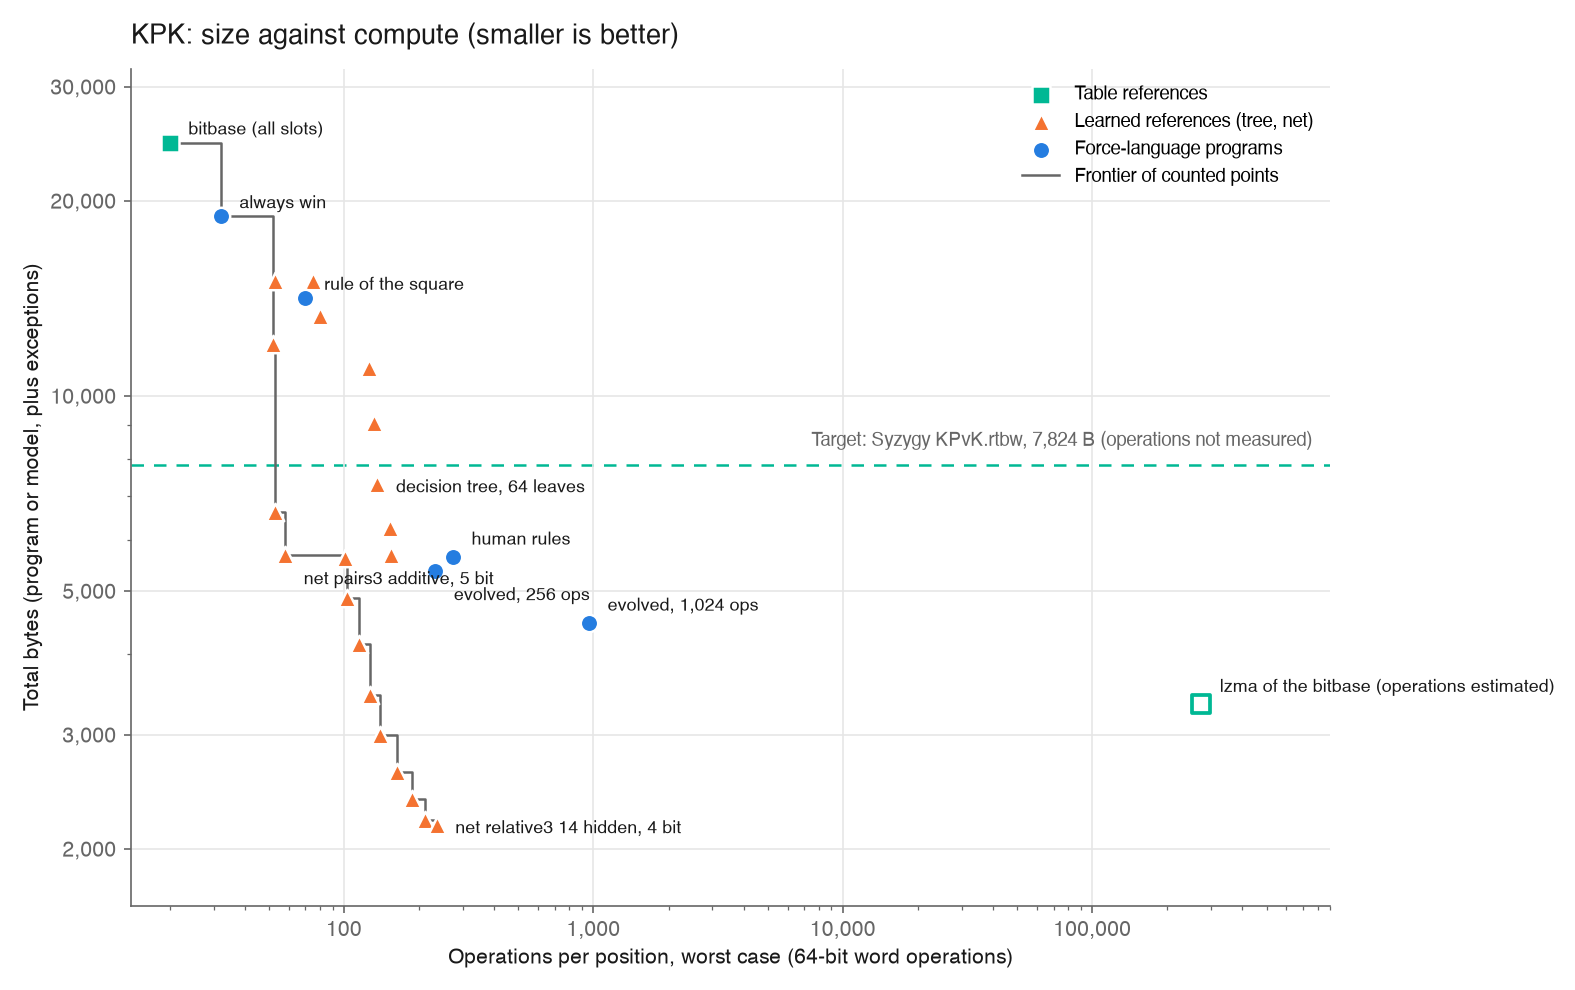
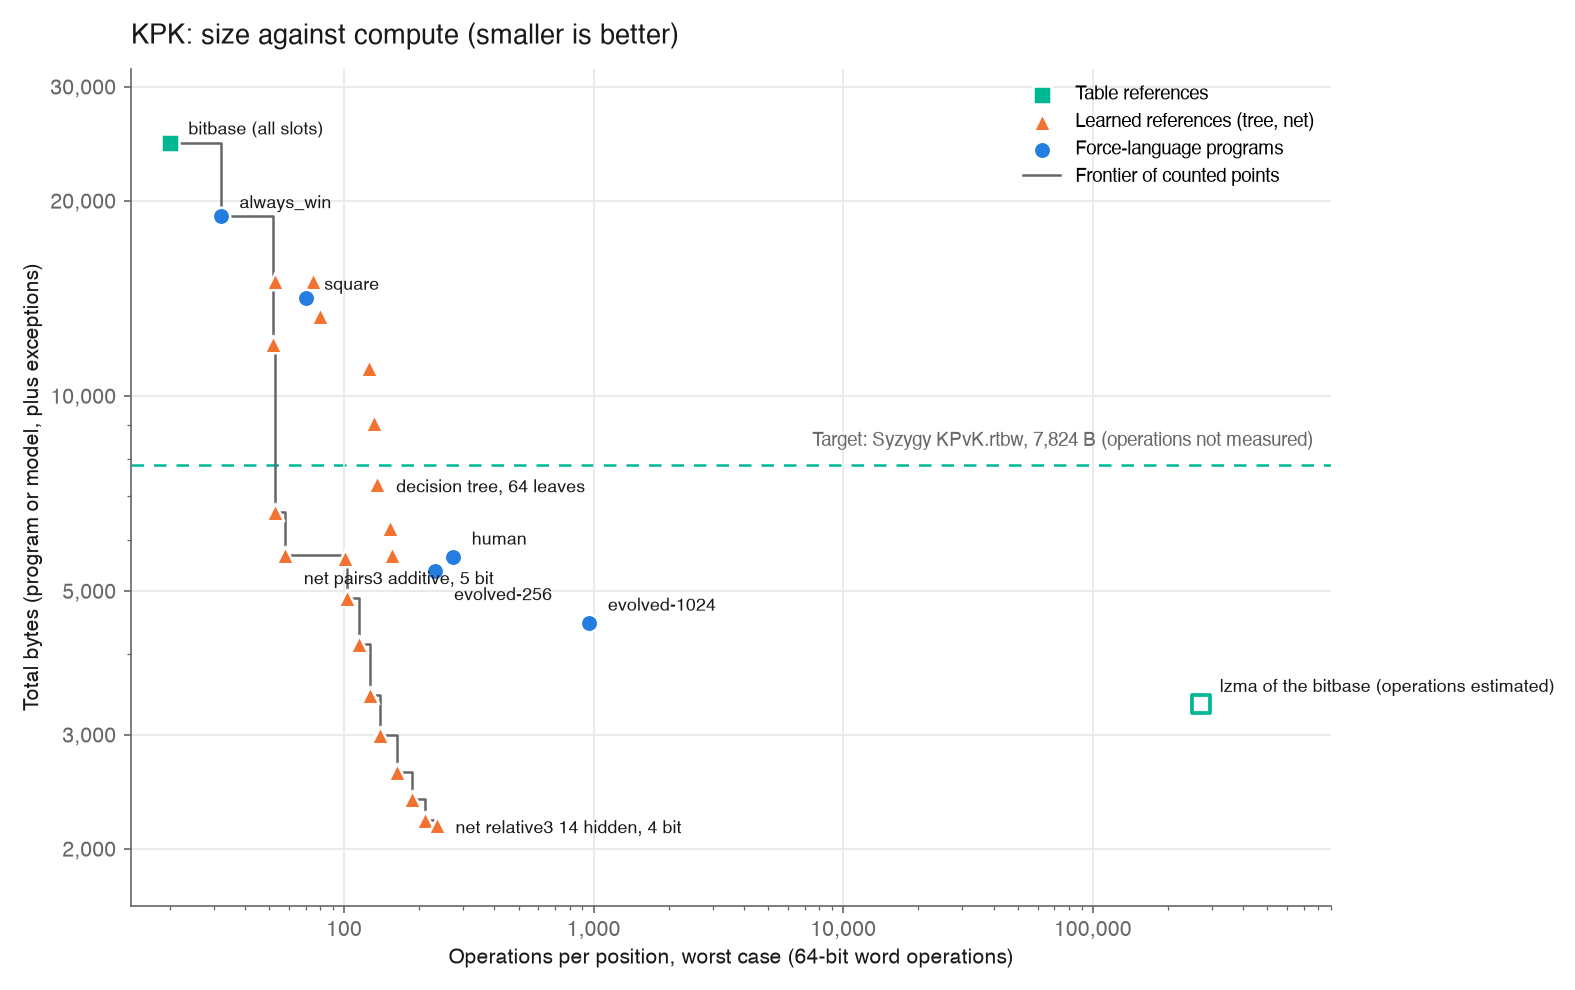
Report plots every program in the endgame's programs/ folder, named by file

diff --git a/src/chess_forces/report.py b/src/chess_forces/report.py
@@ -9,13 +9,6 @@ from .baselines import Point
 
 ENDGAME = endgames.KPK
 PROGRAMS = ENDGAME.programs
-PROGRAM_NAMES = {
-    "always_win": "always win",
-    "square": "rule of the square",
-    "human": "human rules",
-    "evolved-256": "evolved, 256 ops",
-    "evolved-1024": "evolved, 1,024 ops",
-}
 
 # categorical slots 1-3 of the reference palette (validated for scatter use, all pairs), chart inks
 BLUE, ORANGE, AQUA = "#257de0", "#f47230", "#00b894"
@@ -51,10 +44,10 @@ def build() -> Report:
     points = list(baselines.table_points())
     points += baselines.tree_points(task)
     points += baselines.net_points(task)
-    for path, label in PROGRAM_NAMES.items():
+    for path in sorted(PROGRAMS.glob("*.dsl")):
         points.append(
             baselines.program_point(
-                label, (PROGRAMS / f"{path}.dsl").read_text(), task, "DSL program, " + label
+                path.stem, path.read_text(), task, f"DSL program, programs/{path.name}"
             )
         )
     return Report(
@@ -273,12 +266,12 @@ def _plot(report: Report, path: Path) -> None:
     ax.legend(frameon=False, loc="upper right", fontsize=9)
     labels = {
         "bitbase (all slots)": (9, 4, "left"),
-        "always win": (9, 4, "left"),
-        "rule of the square": (9, 4, "left"),
+        "always_win": (9, 4, "left"),
+        "square": (9, 4, "left"),
         "decision tree, 64 leaves": (9, -4, "left"),
-        "human rules": (9, 6, "left"),
-        "evolved, 256 ops": (9, -14, "left"),
-        "evolved, 1,024 ops": (9, 6, "left"),
+        "human": (9, 6, "left"),
+        "evolved-256": (9, -14, "left"),
+        "evolved-1024": (9, 6, "left"),
         "lzma of the bitbase": (9, 6, "left"),
         "net pairs3 additive, 5 bit": (9, -14, "left"),
         "net relative3 14 hidden, 4 bit": (9, -4, "left"),
@@ -291,7 +284,8 @@ def _plot(report: Report, path: Path) -> None:
         for t in dsl.TIERS
     }
     for p in report.points:
-        if (p.name in labels or p.name in tier_best) and p.ops_max is not None:
+        named = p.name in labels or p.name in tier_best or p.kind == "force"
+        if named and p.ops_max is not None:
             dx, dy, ha = labels.get(p.name, (9, -4, "left"))
             text = p.name + (" (operations estimated)" if p.estimated_ops else "")
             ax.annotate(

diff --git a/endgames/kpk/report.md b/endgames/kpk/report.md
@@ -8,21 +8,21 @@ The target is the Syzygy file of the endgame, with at most 4,096 operations per 
 
 | Force program | Total bytes | Max ops | Against Syzygy |
 | --- | ---: | ---: | ---: |
-| evolved, 1,024 ops | 4,459 | 959 | -3,365 B (-43%) |
-| evolved, 256 ops | 5,367 | 232 | -2,457 B (-31%) |
-| human rules | 5,639 | 273 | -2,185 B (-28%) |
-| rule of the square | 14,151 | 70 | +6,327 B (+81%) |
-| always win | 18,914 | 32 | +11,090 B (+142%) |
+| evolved-1024 | 4,459 | 959 | -3,365 B (-43%) |
+| evolved-256 | 5,367 | 232 | -2,457 B (-31%) |
+| human | 5,639 | 273 | -2,185 B (-28%) |
+| square | 14,151 | 70 | +6,327 B (+81%) |
+| always_win | 18,914 | 32 | +11,090 B (+142%) |
 
 ## All methods
 
 | | Total bytes | Model | Exceptions | Errors | Max ops |
 | --- | ---: | ---: | ---: | ---: | ---: |
-| evolved, 1,024 ops | 4,459 | 150.3 | 4,308.9 | 5,426 | 959 |
-| evolved, 256 ops | 5,367 | 149.5 | 5,217.8 | 6,977 | 232 |
-| human rules | 5,639 | 80.4 | 5,558.3 | 7,590 | 273 |
-| rule of the square | 14,151 | 15.6 | 14,135.4 | 30,006 | 70 |
-| always win ★ | 18,914 | 0.8 | 18,912.9 | 54,394 | 32 |
+| evolved-1024 | 4,459 | 150.3 | 4,308.9 | 5,426 | 959 |
+| evolved-256 | 5,367 | 149.5 | 5,217.8 | 6,977 | 232 |
+| human | 5,639 | 80.4 | 5,558.3 | 7,590 | 273 |
+| square | 14,151 | 15.6 | 14,135.4 | 30,006 | 70 |
+| always_win ★ | 18,914 | 0.8 | 18,912.9 | 54,394 | 32 |
 | net relative3 14 hidden, 4 bit ★ | 2,178 | 1,531.8 | 646.0 | 530 | 235 |
 | net relative3 12 hidden, 4 bit ★ | 2,213 | 1,464.0 | 748.9 | 631 | 211 |
 | net relative3 10 hidden, 4 bit ★ | 2,390 | 1,262.6 | 1,127.5 | 1,027 | 187 |
@@ -43,7 +43,7 @@ The target is the Syzygy file of the endgame, with at most 4,096 operations per 
 | decision tree, 8 leaves | 13,288 | 39.9 | 13,248.3 | 26,881 | 80 |
 | decision tree, 2 leaves | 15,028 | 9.7 | 15,017.8 | 33,400 | 53 |
 | decision tree, 4 leaves | 15,040 | 22.6 | 15,017.8 | 33,400 | 75 |
-| lzma of the bitbase | 3,341 | 3,341.0 | 0.0 | 0 | 272,874 (est) |
+| lzma of the bitbase | 3,341 | 3,341.0 | 0.0 | 0 | 270,876 (est) |
 | Syzygy KPvK.rtbw | 7,824 | 7,824.0 | 0.0 | 0 | – |
 | bitbase (all slots) ★ | 24,576 | 24,576.0 | 0.0 | 0 | 20 |
 
@@ -53,10 +53,10 @@ Tables and learned models are references, not targets: they show how much of a w
 
 | Tier | Best reference | Best force program | Difference |
 | ---: | --- | --- | ---: |
-| 64 | 5,681 B (net pairs3 additive, 5 bit) | 18,914 B (always win) | +13,233 B |
-| 256 | 2,178 B (net relative3 14 hidden, 4 bit) | 5,367 B (evolved, 256 ops) | +3,190 B |
-| 1,024 | 2,178 B (net relative3 14 hidden, 4 bit) | 4,459 B (evolved, 1,024 ops) | +2,281 B |
-| 4,096 | 2,178 B (net relative3 14 hidden, 4 bit) | 4,459 B (evolved, 1,024 ops) | +2,281 B |
+| 64 | 5,681 B (net pairs3 additive, 5 bit) | 18,914 B (always_win) | +13,233 B |
+| 256 | 2,178 B (net relative3 14 hidden, 4 bit) | 5,367 B (evolved-256) | +3,190 B |
+| 1,024 | 2,178 B (net relative3 14 hidden, 4 bit) | 4,459 B (evolved-1024) | +2,281 B |
+| 4,096 | 2,178 B (net relative3 14 hidden, 4 bit) | 4,459 B (evolved-1024) | +2,281 B |
 
 ★ on the frontier of counted points (smallest total bytes at or below that operation count). Tables: Syzygy's operations were not measured; lzma is one setting, and its operations come from decompression time (rough, and different on every run), because a single position needs the whole file unpacked. Learned baselines are trained on all positions and their exceptions are charged. The decision trees are DSL programs in trees/, retrained only by chess-forces trees. The nets (src/chess_forces/nets.py) look up one row per square or square pair, add the rows and apply a small output layer; weights are integers, stored in nets/ and evaluated exactly, so the numbers do not depend on the machine. Net sizes use an adaptive code over the integer weights. A model may be held decoded (a DSL program and a net are); tables must be read at random. That rule is a choice: unpacked once, the lzma bitbase would need 20 operations too, but 24,576 bytes of memory, against at most a few KB for the nets.
 
